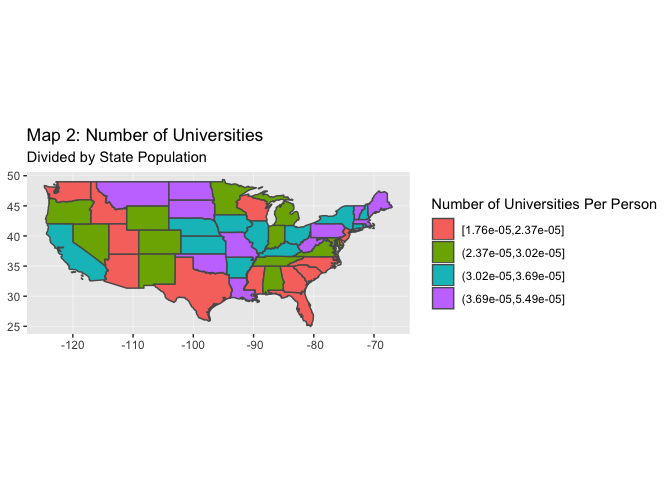
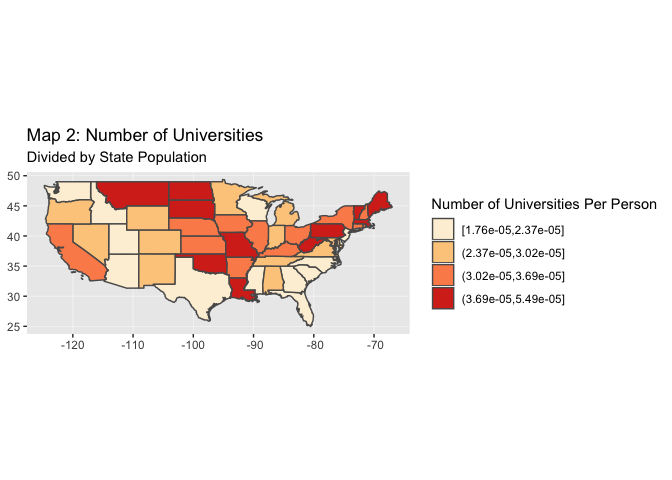
final

Changed region(s): [[0.0625, 0.375, 0.5938, 0.6875], [0.625, 0.4375, 0.6875, 0.6562]]

diff --git a/hw7.md b/hw7.md
@@ -7,6 +7,6 @@ Abby Bergman
 
 For this assignment, I was interested in exploring the density of universities in different states. At first, I created several maps to see which one would provide the ideal way to visualize my data. The [Map 1](https://github.com/abbygirlrose/hw07/blob/master/hw7_files/figure-markdown_github/unnamed-chunk-5-1.png) shows the contiguous United States, colored and overlayed with points. The colors show the total number of universities in a given state, split into four groups. The points show the locations of universities, with size of the point denoting total enrollment of the university. According to this map, states including California, Texas and several eastern states.
 
-This map draws an interesting contrast with the [Map 2](https://github.com/abbygirlrose/hw07/blob/master/hw7_files/figure-markdown_github/unnamed-chunk-5-2.png), which shows the number of universities in each state divided by state population, because the states that have the highest ratio of universities to population occurs in states such as Montana and Maine. I also chose to display [map 3](https://github.com/abbygirlrose/hw07/blob/master/hw7_files/figure-markdown_github/unnamed-chunk-5-3.png) which only shows the university location (points) and total enrollment (point size).
+This map draws an interesting contrast with the [Map 2](https://github.com/abbygirlrose/hw07/blob/master/hw7_files/figure-markdown_github/unnamed-chunk-5-2.png), which shows the number of universities in each state divided by state population, because the states that have the highest ratio of universities to population occurs in states such as Montana and Maine. I also chose to display [Map 3](https://github.com/abbygirlrose/hw07/blob/master/hw7_files/figure-markdown_github/unnamed-chunk-5-3.png) which only shows the university location (points) and total enrollment (point size).
 
-The range of point sizes was chosen so that differences in enrollment size would be clearly defined. I chose to display the number of universities per state as cut intervals because when they were initially displayed as continuous, it was difficult to distinguish between the values. Showing them in cut intervals made it easier to visualize states as having high, moderate, or low numbers of universities.
+I chose to work with a map of the contiguous United States because I was interested in looking at the data across a large scale map. The range of point sizes was chosen so that differences in enrollment size would be clearly defined. I chose to display the number of universities per state as cut intervals because when they were initially displayed as continuous, it was difficult to distinguish between the values. Showing them in cut intervals made it easier to visualize states as having high, moderate, or low numbers of universities. I picked my color palette to help demonstrate the the high, moderate, and low totals.
